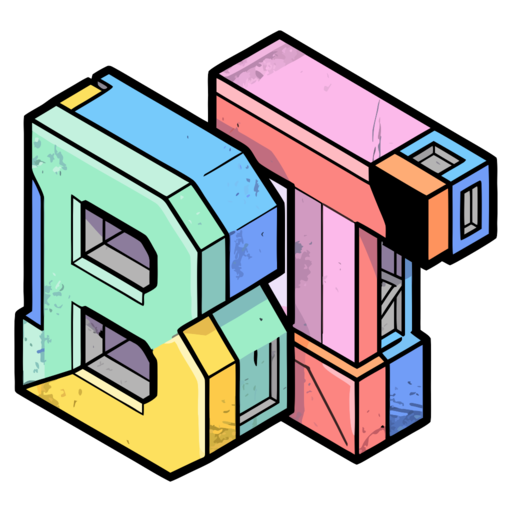
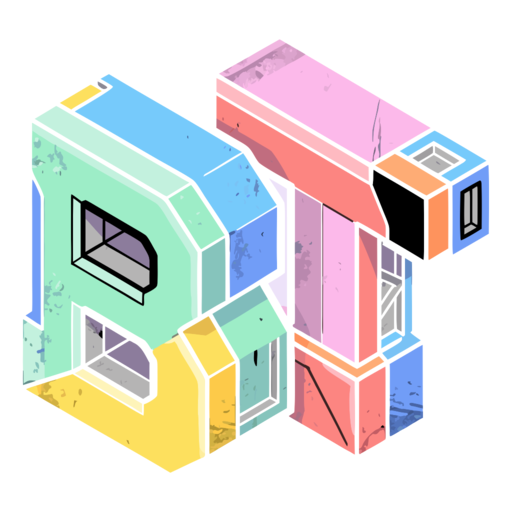
Refine BT mark and library heading

Changed region(s): [[0.0, 0.0625, 1.0, 0.9375], [0.25, 0.2812, 0.4062, 0.4688], [0.4062, 0.3125, 0.4375, 0.3438]]

diff --git a/skills/bookmark-this/assets/visualizer-template.html b/skills/bookmark-this/assets/visualizer-template.html
@@ -326,7 +326,7 @@
           </section>
         </aside>
         <section class="library">
-          <header class="library-head"><div><p class="section-kicker" id="view-kicker">What survived</p><h1 id="view-title">Saved signals</h1></div><div class="result-count" id="count"></div></header>
+          <header class="library-head"><div><p class="section-kicker" id="view-kicker">What survived</p><h1 id="view-title">The Goods</h1></div><div class="result-count" id="count"></div></header>
           <div class="filter-summary" id="filter-summary" hidden aria-label="Active filters"></div>
           <section class="bookmark-layout" id="grid" aria-live="polite"></section>
           <div class="empty" id="empty" hidden><h2>Nothing matches yet.</h2><p>Remove a filter, try another phrase, or reset the view.</p></div>
@@ -499,7 +499,7 @@
       if (state.groupBy === 'none') { if (state.viewMode === 'table') grid.append(renderTable(items)); else items.forEach((item,index) => grid.append(renderCard(item,index,index === 0))); return; }
       let ordinal = 0; groupEntries(items).forEach(([value,members]) => { const section = node('details','bookmark-group'), head = node('summary','group-head'), groupGrid = node('div','group-grid' + (state.viewMode === 'table' ? ' table-group' : '')); head.append(node('h2','',labelFor(state.groupBy,value)),node('span','',`${members.length} bookmark${members.length === 1 ? '' : 's'}`)); if (state.viewMode === 'table') groupGrid.append(renderTable(members)); else members.forEach(item => { groupGrid.append(renderCard(item,ordinal,false)); ordinal += 1; }); section.append(head,groupGrid); grid.append(section); });
     }
-    function render() { const items = sortedItems(filteredItems()), hiddenTotal = data.items.filter(item => item.hidden).length, visibleTotal = data.items.length - hiddenTotal; const selected = items.find(item => item.note === state.selected) || items[0]; state.selected = selected?.note || ''; renderItems(items); count.textContent = state.hiddenView ? `${items.length} of ${hiddenTotal} filtered-out signal${hiddenTotal === 1 ? '' : 's'}` : `${items.length} of ${visibleTotal} saved signal${visibleTotal === 1 ? '' : 's'}${state.groupBy === 'none' ? '' : ` · ${groupEntries(items).length} groups`}`; hiddenToggle.textContent = state.hiddenView ? 'Back to saved' : `Filtered out ${hiddenTotal}`; hiddenToggle.setAttribute('aria-pressed',String(state.hiddenView)); document.getElementById('view-kicker').textContent = state.hiddenView ? 'Still recoverable' : 'What survived'; document.getElementById('view-title').textContent = state.hiddenView ? 'Filtered out' : 'Saved signals'; empty.hidden = items.length !== 0; empty.querySelector('h2').textContent = state.hiddenView ? 'Nothing is filtered out.' : 'Nothing matches yet.'; empty.querySelector('p').textContent = state.hiddenView ? 'Return to saved bookmarks or filter something out from its detail panel.' : 'Remove a filter, try another phrase, or reset the view.'; renderFilters(); renderFilterSummary(); renderContextLedger(); renderInspector(selected); }
+    function render() { const items = sortedItems(filteredItems()), hiddenTotal = data.items.filter(item => item.hidden).length, visibleTotal = data.items.length - hiddenTotal; const selected = items.find(item => item.note === state.selected) || items[0]; state.selected = selected?.note || ''; renderItems(items); count.textContent = state.hiddenView ? `${items.length} of ${hiddenTotal} filtered-out signal${hiddenTotal === 1 ? '' : 's'}` : `${items.length} of ${visibleTotal} saved signal${visibleTotal === 1 ? '' : 's'}${state.groupBy === 'none' ? '' : ` · ${groupEntries(items).length} groups`}`; hiddenToggle.textContent = state.hiddenView ? 'Back to saved' : `Filtered out ${hiddenTotal}`; hiddenToggle.setAttribute('aria-pressed',String(state.hiddenView)); document.getElementById('view-kicker').textContent = state.hiddenView ? 'Still recoverable' : 'What survived'; document.getElementById('view-title').textContent = state.hiddenView ? 'Filtered out' : 'The Goods'; empty.hidden = items.length !== 0; empty.querySelector('h2').textContent = state.hiddenView ? 'Nothing is filtered out.' : 'Nothing matches yet.'; empty.querySelector('p').textContent = state.hiddenView ? 'Return to saved bookmarks or filter something out from its detail panel.' : 'Remove a filter, try another phrase, or reset the view.'; renderFilters(); renderFilterSummary(); renderContextLedger(); renderInspector(selected); }
     document.getElementById('search').addEventListener('input', event => { state.query = event.target.value; render(); });
     document.getElementById('clear').onclick = () => { state.query = ''; state.facetQuery = ''; state.sortBy = 'newest'; state.groupBy = 'none'; FACET_KEYS.forEach(key => state.filters[key].clear()); document.getElementById('search').value = ''; facetSearch.value = ''; sortBy.value = 'newest'; groupBy.value = 'none'; render(); };
     hiddenToggle.onclick = () => { state.hiddenView = !state.hiddenView; state.selected = data.items.find(item => Boolean(item.hidden) === state.hiddenView)?.note || ''; render(); };

diff --git a/scripts/check_release_privacy.py b/scripts/check_release_privacy.py
@@ -43,8 +43,8 @@ EXPECTED_PUBLIC_IMAGE_HASHES = {
[9 lines of base64/hex data omitted]
 }

diff --git a/tests/test_bookmark_system.py b/tests/test_bookmark_system.py
@@ -74,6 +74,8 @@ class BookmarkSystemTest(unittest.TestCase):
         self.assertIn('aria-label="Bookmark This monogram"', visualizer)
         self.assertIn('width: 50.6px; height: 50.6px;', visualizer)
         self.assertIn('All of your bookmarks in one place.', visualizer)
+        self.assertIn('The Goods', visualizer)
+        self.assertNotIn('Saved signals', visualizer)
         self.assertIn('transform: translateY(2px);', visualizer)
         self.assertIn('background: conic-gradient(', visualizer)
         self.assertIn('class="maker-logo-dark"', visualizer)
